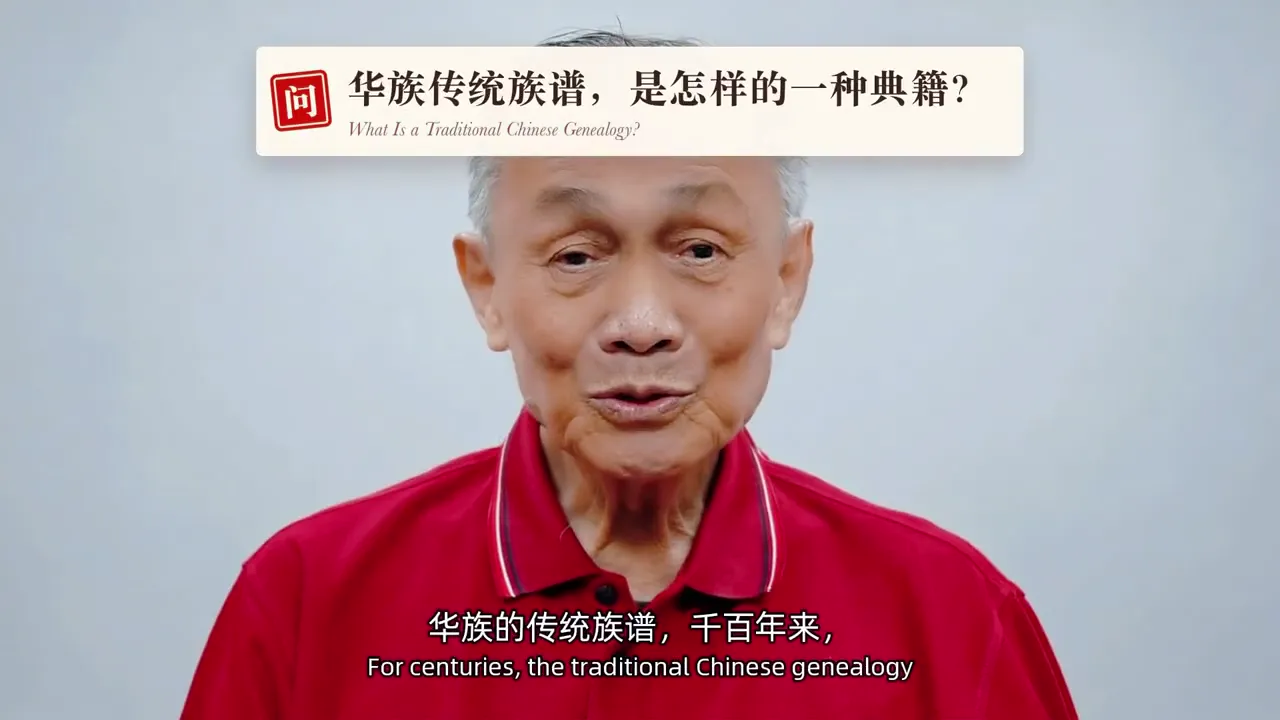
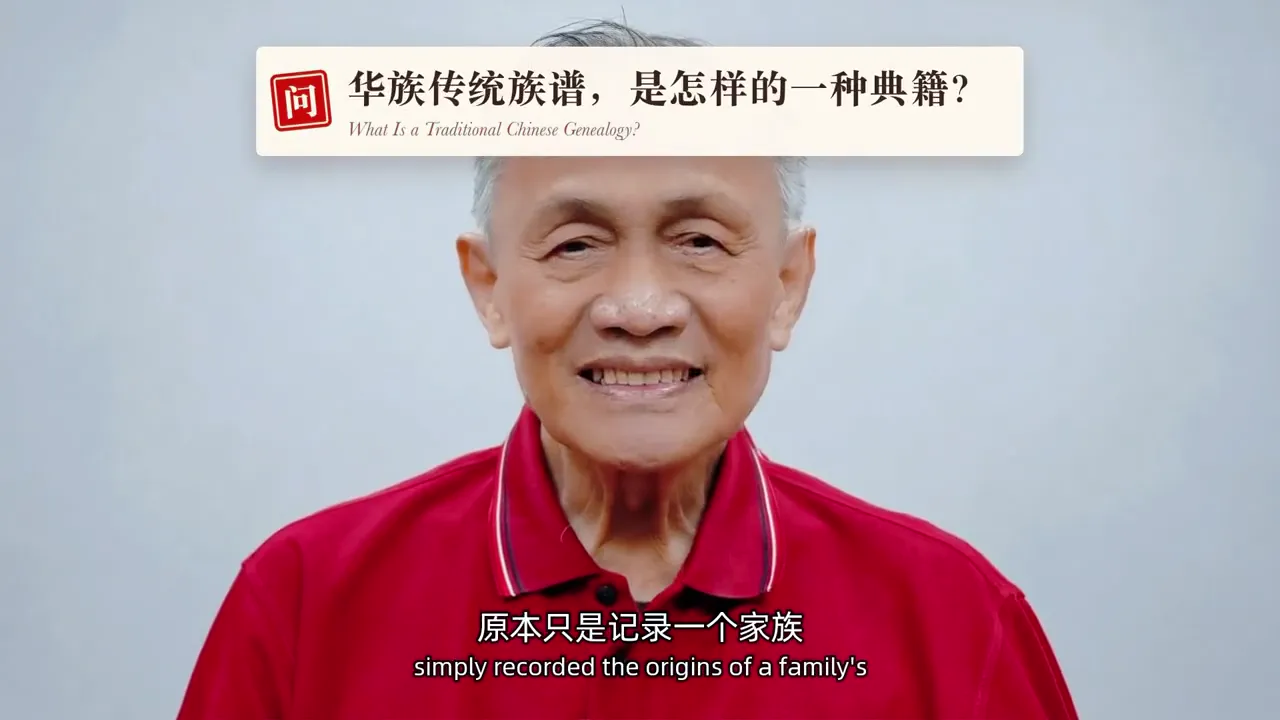
Videos page: AI 数字人 disclosure; new posters (xiangce 21.0s eyes open, jiapu 33.0s clean)

diff --git a/src/assets/styles/heritage.css b/src/assets/styles/heritage.css
@@ -334,6 +334,32 @@
   content: '」';
   color: var(--gold);
 }
+.ai-disclosure {
+  display: flex;
+  gap: 10px;
+  align-items: center;
+  margin: 14px 0 0;
+  padding-top: 12px;
+  border-top: 1px dashed var(--gold-soft);
+  color: var(--muted);
+  font-size: 0.9rem;
+  letter-spacing: 0.04em;
+}
+.ai-disclosure .nowrap {
+  white-space: nowrap;
+}
+.ai-disclosure-mark {
+  display: inline-grid;
+  place-items: center;
+  flex: none;
+  width: 22px;
+  height: 22px;
+  border: 1px solid var(--gold);
+  color: var(--gold);
+  font-family: var(--serif);
+  font-size: 0.75rem;
+  line-height: 1;
+}
 .video-list {
   display: grid;
   gap: 88px;
